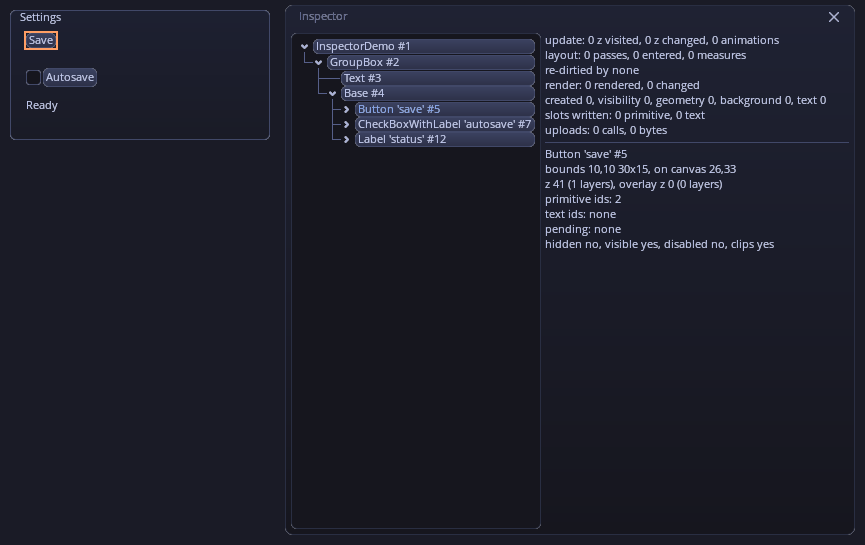
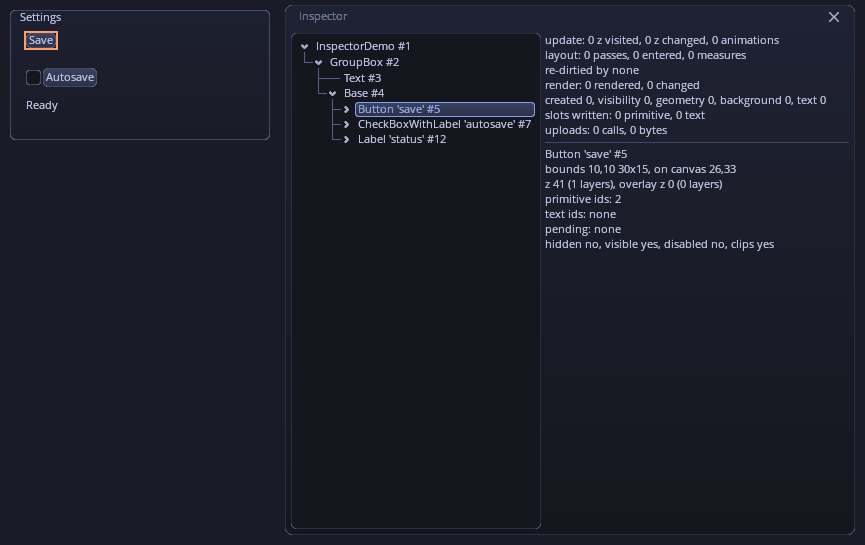
Tree labels draw as flat list rows, not buttons (#568)
A TreeNode's label (the private TreeNodeText Button) had no renderer of its
own and drew as a push button, and its selection showed only in its text
colour. The textured skin now has a TreeNodeText renderer of one slot,
hidden at rest and while disabled, ListBox's ListItemHover while hovered and
ListItemSel while selected. PropertyTree categories take the same renderer
and are no longer selectable. demo.png, InspectorDemo.png and
ThemeEditorDemo.png are regenerated.

Changed region(s): [[0.3434, 0.0624, 0.6243, 0.2807]]

diff --git a/source/skins/textured/texturedControls.cpp b/source/skins/textured/texturedControls.cpp
@@ -769,6 +769,35 @@ void Selectable::update(renderer::Base *renderer, controls::Base *baseControl)
 }
 
 ///////////////////////////////////////////////////////////////////////////
+//TreeNodeText
+void TreeNodeText::update(renderer::Base *renderer, controls::Base *baseControl)
+{
+    if(m_primitives.empty())
+        return;
+
+    // the label is a private Button subclass in treeNode.cpp
+    controls::Button *label=static_cast<controls::Button *>(baseControl);
+    const tokyonight::Surface *surface=nullptr;
+
+    // a press selects at once (TreeNode::onClickName), so there is no pressed look
+    if(!label->isDisabled())
+    {
+        if(label->getToggleState())
+            surface=&tokyonight::ListItemSel;
+        else if(label->isHovered())
+            surface=&tokyonight::ListItemHover;
+    }
+
+    // at rest the slot is hidden, as a Selectable's: a transparent rect would
+    // still write depth over the tree's lines and the band behind it
+    if(surface && baseControl->visible())
+        renderer->drawRoundedRect(m_primitives[0], baseControl->getRenderBounds(), surface->radius,
+            surface->borderWidth, surface->top, surface->bottom, surface->border, baseControl->getZIndex());
+    else
+        renderer->hidePrimitive(m_primitives[0]);
+}
+
+///////////////////////////////////////////////////////////////////////////
 //PropertyRow
 void PropertyRow::update(renderer::Base *renderer, controls::Base *baseControl)
 {

diff --git a/include/gweni/skins/textured/texturedControls.h b/include/gweni/skins/textured/texturedControls.h
@@ -902,6 +902,19 @@ public:
     inline static const std::string_view name="Selectable";
 };
 
+// A TreeNode's label, a flat list row as a ListBox's: hidden at rest (and while
+// disabled), ListItemHover while hovered, ListItemSel while selected (the
+// title's toggle state); the Button's Text draws the string.
+class TreeNodeText:public textured::ControlRegister<TreeNodeText>
+{
+public:
+    static void staticInit(TexturedSkin *) { m_staticInit=true; }
+
+    void update(renderer::Base *renderer, controls::Base *baseControl) override;
+
+    inline static const std::string_view name="TreeNodeText";
+};
+
 // A DataTable's backdrop, the ListBox's; its header and rows draw themselves.
 class DataTable:public textured::ControlRegister<DataTable>
 {

diff --git a/include/gweni/controls/propertyTree.h b/include/gweni/controls/propertyTree.h
@@ -27,6 +27,8 @@ public:
     GWENI_CONTROL_INLINE(PropertyTreeNode, TreeNode)
     {
         m_title->setTextColorOverride(getSkin()->Colors.Properties.Title);
+        // a category's selection means nothing: its title only hovers
+        setSelectable(false);
     }
 };
 

diff --git a/docs/architecture.md b/docs/architecture.md
@@ -1632,6 +1632,20 @@ two programs and the draws. What follows describes both together:
   previous one through its own `setSelected`, members are untoggleable, and a member
   that is deleted, or the group itself, lets the other go without an event. A selection
   change in a group therefore marks the two rows (and their labels) alone.
+- **Tree labels.** A `TreeNode`'s label (`TreeNodeText`, a private `Button` subclass in
+  `source/controls/treeNode.cpp`) draws as a flat list row, not a button: the textured
+  `TreeNodeText` renderer, found by its type name before `Button`'s, has one slot,
+  **hidden** at rest and while disabled (selected or not), painting ListBox's
+  `ListItemHover` while hovered and `ListItemSel` while selected (the title's toggle
+  state, which `TreeNode::setSelected` sets), hovered or not. A press selects at once
+  (`onDownCaller`), so there is no pressed look. The fill is the label's bounds, from
+  its 16-unit margin past the toggle to the tree's right edge; the connector lines and
+  the chevron are the `TreeNode`'s and the toggle's, and the text colours are
+  `TreeNodeText::updateColors`' (`Colors.Tree`). Hover and selection go through
+  `redraw()`, so moving the selection marks the two labels alone. A `PropertyTreeNode`'s
+  title takes the same renderer and is not selectable (`setSelectable(false)`): at rest
+  the category's `Properties.Border` band shows through, and a hover paints
+  `ListItemHover`, a little darker than the band.
 - **Menu rows.** A `Menu` is one rounded backdrop (the textured `Menu` renderer, the
   `Menu` surface) with flat rows on it; a `MenuStrip` has its own renderer, found
   before `Menu`'s by the type walk, painting the flat, square `MenuStrip` surface. A
